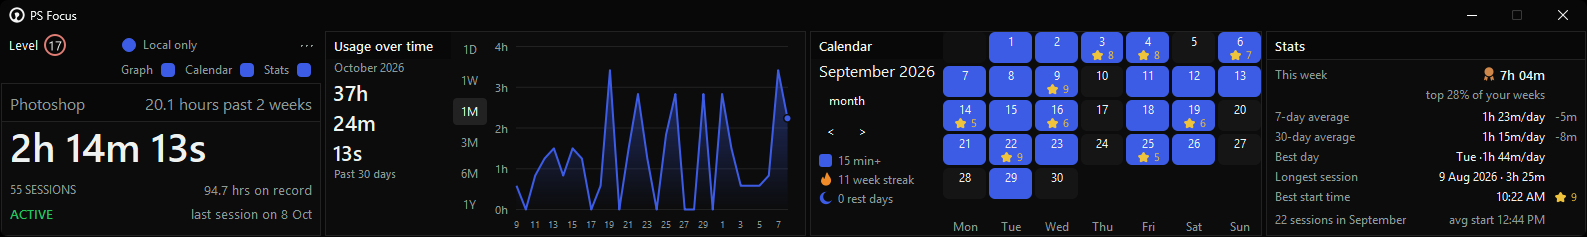
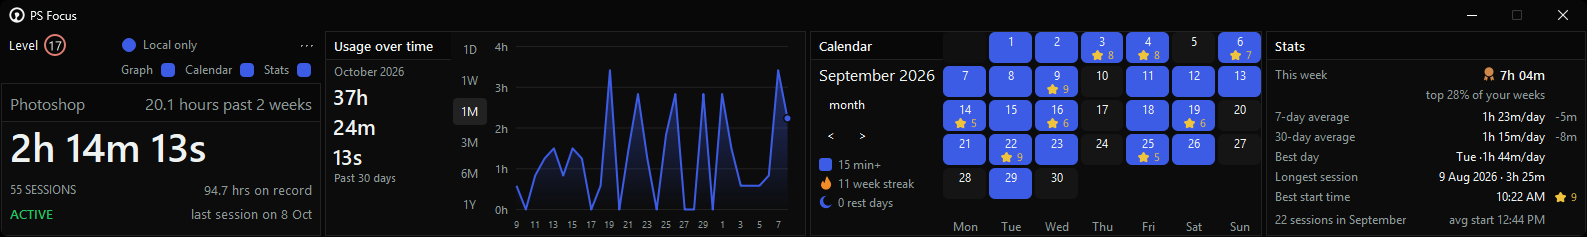
Line under landscape strips

diff --git a/qt/calendar_module.py b/qt/calendar_module.py
@@ -15,7 +15,7 @@ from stat_lines import DAY_ABBREVIATIONS
 from tracker import ActivityStore
 
 from .icons import icon
-from .module import ModuleBlock, PaintedButton
+from .module import STRIP_GAP, ModuleBlock, PaintedButton
 from .theme import Fonts, anchored_top_left, color, draw_anchored, draw_outline_text, draw_text, line_height, text_width
 
 # The same measurements as the Tk calendar, see ui_calendar.py. The first and last years it can be stepped to
@@ -114,7 +114,7 @@ class CalendarModule(ModuleBlock):
         if landscape:
             # The days start at the very top, the module's name being in the strip
             self.origin = QPoint(1, 1)
-            top = 1 + SIDE_TITLE_TOP + line_height(self.fonts.bold) + SIDE_STRIP_GAP + line_height(self.fonts.two_week) + SIDE_STRIP_GAP
+            top = 1 + SIDE_TITLE_TOP + line_height(self.fonts.bold) + SIDE_STRIP_GAP + STRIP_GAP + line_height(self.fonts.two_week) + SIDE_STRIP_GAP
             self.toggle.place(MODULE_MARGIN, top)
             top += self.toggle.height + 4
             self.side_previous_button.place(MODULE_MARGIN, top)
@@ -229,7 +229,8 @@ class CalendarModule(ModuleBlock):
         """The landscape strip under the module's name: the month or year, room for the buttons, the legend and the
         streaks, one under another. Return where the strip ends"""
         fonts, left, muted = self.fonts, MODULE_MARGIN, color("muted")
-        top = SIDE_TITLE_TOP + line_height(fonts.bold) + SIDE_STRIP_GAP
+        # Clear of the line under the name strip
+        top = SIDE_TITLE_TOP + line_height(fonts.bold) + SIDE_STRIP_GAP + STRIP_GAP
         draw_text(painter, left, top, title, color("text"), fonts.two_week)
         top += line_height(fonts.two_week) + SIDE_STRIP_GAP + self.toggle.height + 4 + self.side_previous_button.height + SIDE_STRIP_GAP
         square_top = top + (self.line_height - LEGEND_SQUARE_SIZE) // 2

diff --git a/qt/chart.py b/qt/chart.py
@@ -15,7 +15,7 @@ import app_config
 from app_config import CHART_FILL_OPACITY, CHART_PERIOD_CAPTIONS, EDGE_PADDING, MODULE_CANVAS_WIDTH, MODULE_MARGIN, format_duration
 from tracker import ActivityStore
 
-from .module import ModuleBlock, PaintedButton
+from .module import STRIP_GAP, ModuleBlock, PaintedButton
 from .theme import Fonts, color, draw_anchored, draw_text, line_height, text_width, tk_round
 
 # The same measurements as the Tk graph, see ui_chart.py: the gap between period buttons; the space below the
@@ -82,7 +82,8 @@ class ChartModule(ModuleBlock):
         """Where the landscape strip's rows start, inside the border: the month, the total, the caption and the
         button column, and where the strip ends"""
         fonts = self.fonts
-        month_top = SIDE_TITLE_TOP + line_height(fonts.bold) + SIDE_STRIP_GAP
+        # Clear of the line under the name strip
+        month_top = SIDE_TITLE_TOP + line_height(fonts.bold) + SIDE_STRIP_GAP + STRIP_GAP
         headline_top = month_top + line_height(fonts.small) + 2
         # Room for the three lines of the stacked total; a shorter total has its caption moved up under it
         caption_top = headline_top + 3 * line_height(fonts.headline)

diff --git a/qt/module.py b/qt/module.py
@@ -263,10 +263,8 @@ class ModuleBlock(QWidget):
         painter.restore()
 
     def paint_title(self, painter: QPainter) -> None:
-        """The name on its strip; in landscape's side strip the strip is just around the name, with no line, the
-        strip's own rows starting close under it"""
-        side = getattr(self, "landscape", False) and not self.floating
-        paint_title_strip(painter, self.title_rect(), self.hovered_control == "title", self.glass_alpha, line=not side)
+        """The name on its strip, with a line under it; in landscape the strip runs along the top of the side column"""
+        paint_title_strip(painter, self.title_rect(), self.hovered_control == "title", self.glass_alpha)
         draw_text(painter, 1 + MODULE_MARGIN, 1 + MODULE_TITLE_PADDING, self.title, color("text"), self.fonts.bold)
 
     def docked_width(self) -> int:
